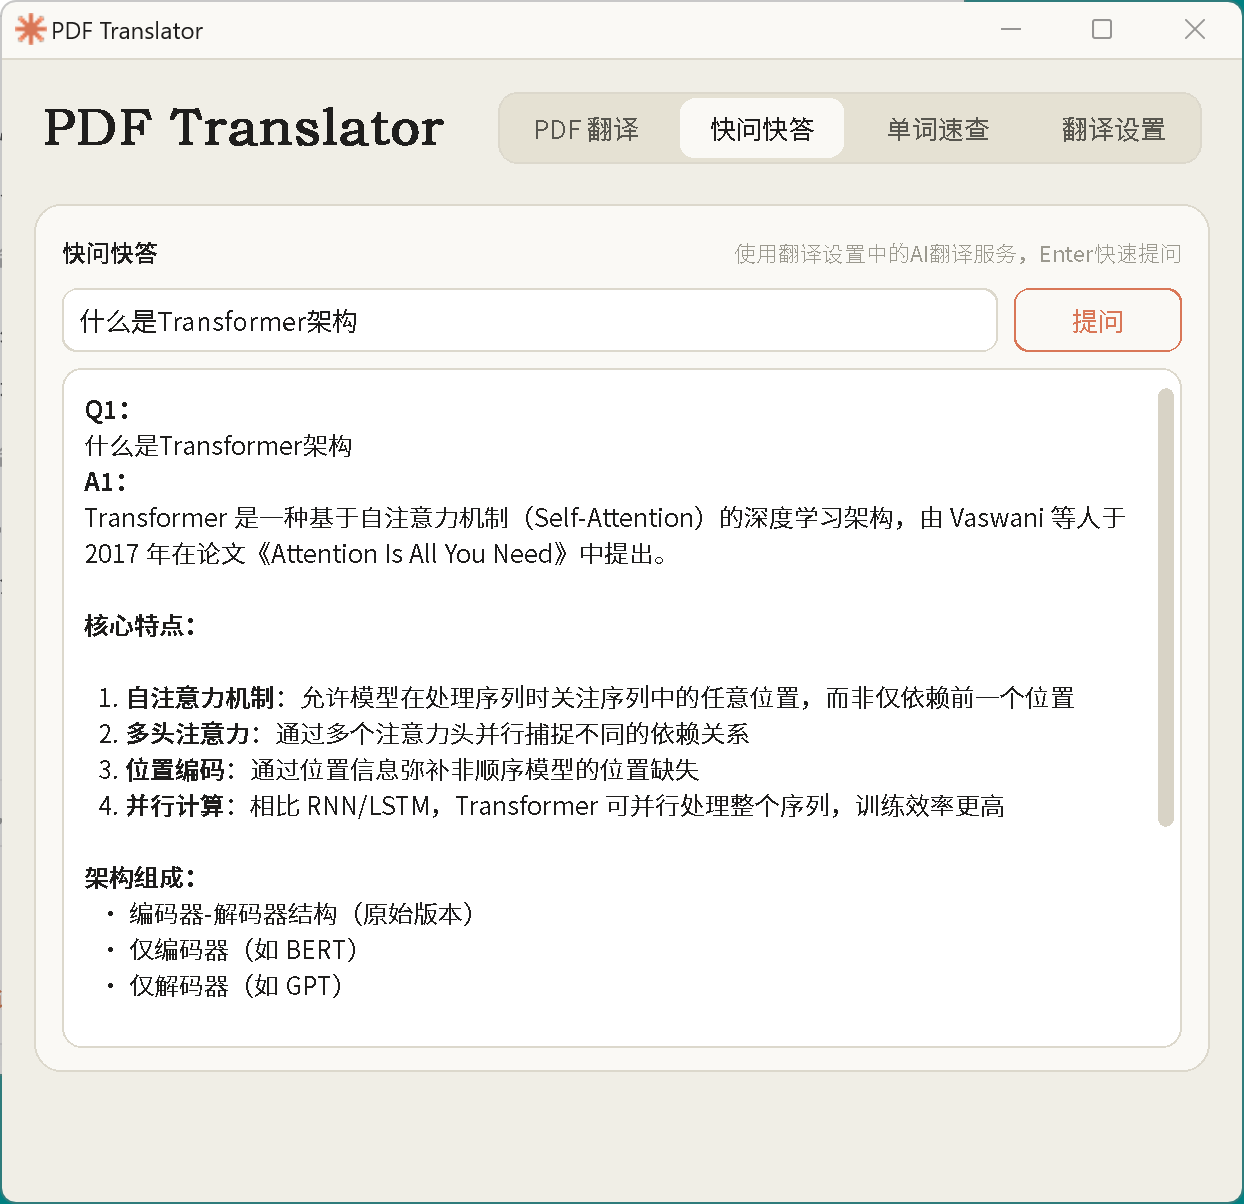
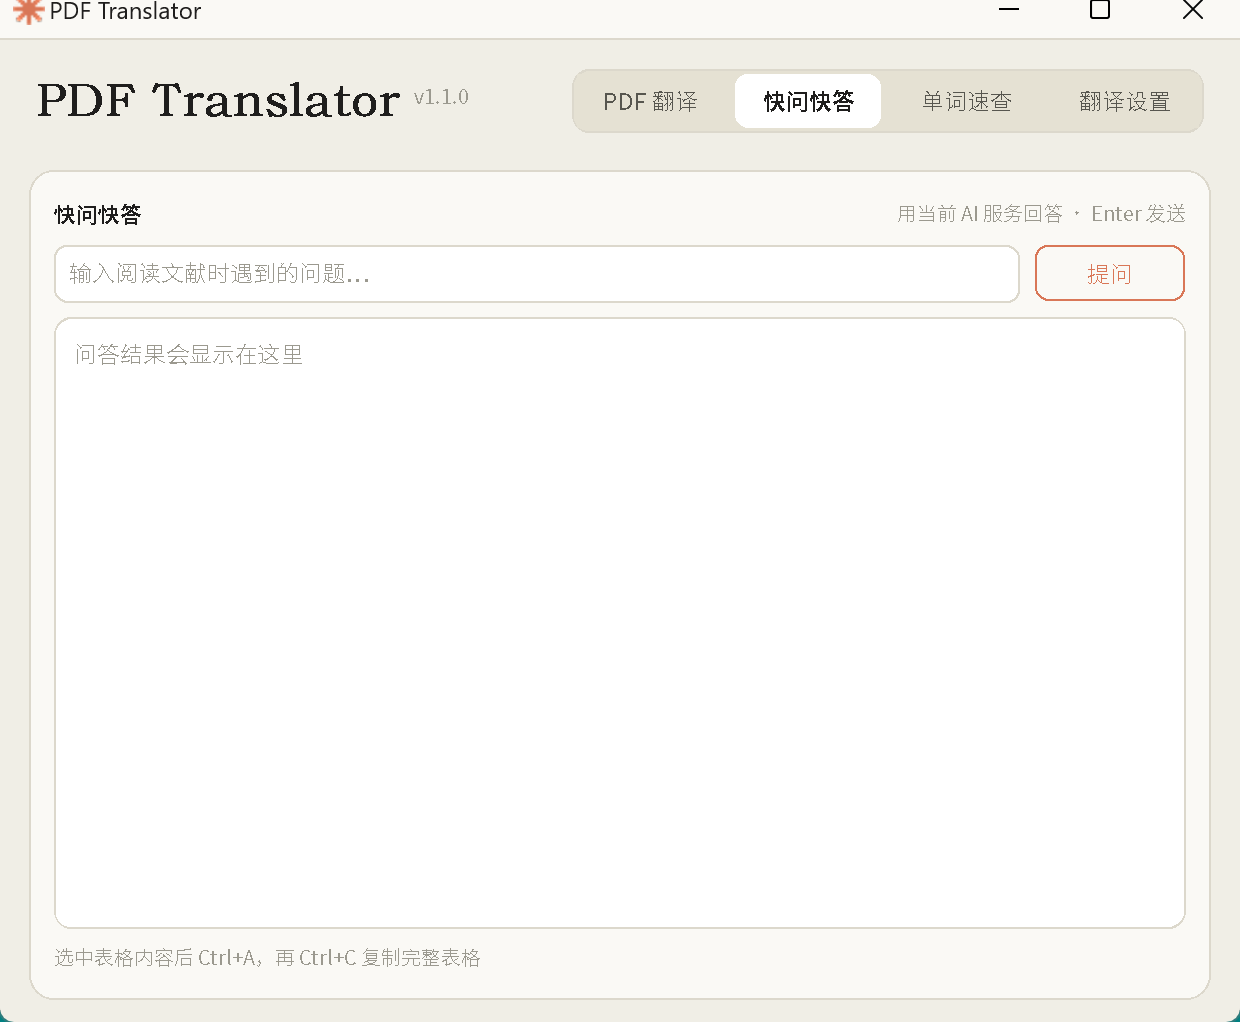
Document the proxy setting, virtualenv install and dev workflow
Screenshots are regenerated from the current UI (version badge, proxy row,
active-service hint).

diff --git a/README.md b/README.md
@@ -13,11 +13,14 @@
 - 快问快答：调用翻译设置中的 AI 服务，适合阅读文献时临时提问，支持 Markdown 渲染和最近对话上下文
 - 单词速查：调用所选 AI 服务即时查词，释义语言跟随「目标语言」，支持音标和领域释义，结果区支持 Markdown 渲染
 - 模型列表支持「获取可用模型」后通过右侧下拉选择；长列表会限高并滚动，不会自动覆盖输入框
+- **网络代理可配置**：跟随系统 / 直接连接 / 自定义，设置同时作用于 GUI 请求和 pdf2zh 翻译请求
+- **请求失败自动重试**：超时、429、5xx 会按指数退避重试，长文献不会因单次抖动整篇失败
+- **API Key 使用 Windows DPAPI 加密后落盘**，只有当前 Windows 账户能解密
 - Ctrl+滚轮 缩放整个界面（70%–160%），Ctrl+0 复原；自动记住缩放比例和窗口尺寸
-- 自动保存翻译服务、语言、输出模式、页码、线程、缓存、注意事项和输出目录等设置
+- 自动保存翻译服务、语言、输出模式、页码、线程、缓存、注意事项、代理和输出目录等设置
 - 支持 OpenAI 兼容、Claude/Anthropic 兼容、DeepSeek、Gemini、智谱、SiliconFlow、Grok、Groq、Ollama、Azure OpenAI 等服务
 - 支持 LongCat 这类 Anthropic-compatible `/messages` 网关
-- 翻译设置内可检查 GitHub 更新，并自动拉取最新版本
+- 翻译设置内可检查 GitHub 更新并自动拉取；每天静默检查一次，无 Git 环境时回落为下载压缩包更新
 - 自动创建桌面快捷方式
 - GUI 内管理翻译服务配置，API Key 只保存在本机用户配置目录
 
@@ -43,18 +46,22 @@ powershell -NoProfile -ExecutionPolicy Bypass -Command "irm https://raw.githubus
 
 安装脚本会：
 
-- 使用 `git clone` 将本仓库安装到 `%LOCALAPPDATA%\pdf2zh-gui`
+- 使用 `git clone` 将本仓库安装到 `%LOCALAPPDATA%\pdf2zh-gui`（已安装过则原地 `git pull`，保留虚拟环境）
+- 在安装目录下创建独立虚拟环境 `.venv`，依赖只装在这里，**不会污染系统 Python 或 conda 环境**
 - 安装 `requirements.txt` 中的 Python 依赖
-- 在桌面创建 `PDF Translator.lnk`
+- 在桌面创建 `PDF Translator.lnk`，指向 `.venv` 里的 `pythonw.exe`
 - 使用项目内置图标
 
 安装目录会保留完整 Git 仓库，因此 GUI 内的「检查更新」可以直接获取并拉取 GitHub 最新版本。
 
-如果你想指定 Python，可先设置：
+可选参数：
 
 ```powershell
+# 指定基础 Python
 $env:PDF2ZH_GUI_PYTHON="C:\Path\To\python.exe"
-powershell -NoProfile -ExecutionPolicy Bypass -Command "irm https://raw.githubusercontent.com/YanRuiZhan/pdf2zh-gui/main/install.ps1 | iex"
+
+# 不建虚拟环境，直接装进当前 Python（不推荐）
+$env:PDF2ZH_GUI_NO_VENV="1"
 ```
 
 > 运行远程脚本前，建议先打开 `install.ps1` 检查内容。脚本不会读取、提交或上传你的 API Key。
@@ -77,15 +84,12 @@ powershell -NoProfile -ExecutionPolicy Bypass -Command "irm https://raw.githubus
 ```powershell
 git clone https://github.com/YanRuiZhan/pdf2zh-gui.git
 cd pdf2zh-gui
-python -m pip install -r requirements.txt
-python pdf2zh_gui.py
+python -m venv .venv
+.\.venv\Scripts\python.exe -m pip install -r requirements.txt
+.\.venv\Scripts\pythonw.exe pdf2zh_gui.py
 ```
 
-也可以双击：
-
-```text
-pdf_translator.bat
-```
+也可以双击 `pdf_translator.bat`，它会优先使用同目录下的 `.venv`。
 
 ## 配置翻译服务
 
@@ -107,9 +111,21 @@ LongCat / Claude 兼容服务可选：
 %USERPROFILE%\.config\PDFMathTranslate\gui_prefs.json
 ```
 
-`gui_services.json` 会包含你添加的服务地址、模型名和 API Key；`gui_prefs.json` 保存界面偏好和翻译设置。它们都是个人配置，不应提交到 GitHub。
+`gui_services.json` 保存你添加的服务地址、模型名和 API Key，其中 **API Key 会用 Windows DPAPI 加密**（形如 `enc:v1:...`），换电脑或换 Windows 账户后需要重新填写。`gui_prefs.json` 保存界面偏好和翻译设置。它们都是个人配置，不应提交到 GitHub。
 
-如果你的电脑上还有 `%USERPROFILE%\.config\PDFMathTranslate\config.json`，那是 pdf2zh 的旧配置文件，也可能包含密钥；本 GUI 不会把其中的旧服务直接显示在「翻译服务」下拉框中。
+如果你的电脑上还有 `%USERPROFILE%\.config\PDFMathTranslate\config.json`，那是 pdf2zh 的旧配置文件，也可能包含明文密钥；本 GUI 不会把其中的旧服务直接显示在「翻译服务」下拉框中。
+
+## 网络代理
+
+「翻译设置 → 网络代理」提供三种模式：
+
+| 模式 | 行为 |
+| --- | --- |
+| 跟随系统 | 使用 `HTTP_PROXY` / `HTTPS_PROXY` 等环境变量与系统代理设置（默认） |
+| 直接连接 | 本进程内清除代理环境变量，强制直连 |
+| 自定义 | 使用你填写的代理地址，例如 `http://127.0.0.1:7890` |
+
+设置会同时作用于 GUI 自己的请求（测试连接、获取模型、快问快答、单词速查）和 pdf2zh 的翻译请求。
 
 ## 默认设置
 
@@ -123,6 +139,8 @@ LongCat / Claude 兼容服务可选：
 - 并发线程：8
 - 翻译缓存：启用（不默认忽略缓存）
 - 界面缩放：90%
+- 网络代理：跟随系统
+- 单次翻译上限：4096 tokens
 - 默认不内置翻译服务，需要首次启动后手动添加
 - 默认注意事项：不翻译公式、参考文献、URL/DOI/邮箱，并保留英文人名、地名和常见专业术语缩写
 
@@ -137,16 +155,33 @@ LongCat / Claude 兼容服务可选：
 本项目在 GUI 启动翻译时会对 pdf2zh 做两个运行时兼容补丁：
 
 - 修复部分 PDF 渲染时 `PDFPageInterpreterEx.scs` 未初始化的问题
-- 对 Base URL 含 `/anthropic` 或 `anthropic.com` 的 OpenAI-like 服务，走 Anthropic `/messages` 请求，兼容 LongCat 等网关
+- 对 Base URL 含 `/anthropic` 或 `anthropic.com` 的 OpenAI-like 服务，走 Anthropic `/messages` 请求，兼容 LongCat 等网关（含失败重试）
 
 这些补丁只在本 GUI 进程内生效，不会修改你 Python 环境里的 site-packages 文件。
 
+## 开发
+
+核心逻辑与界面分离，`pdf2zh_core.py` 不依赖 tkinter，可以直接跑测试：
+
+```powershell
+python -m pip install pytest
+python -m pytest tests -q
+```
+
+CI（`.github/workflows/ci.yml`）会在 Ubuntu 与 Windows、Python 3.11 / 3.12 上跑字节码编译和这套测试。
+
 ## 文件
 
-- `pdf2zh_gui.py`：主程序
+- `pdf2zh_gui.py`：GUI 主程序
+- `pdf2zh_core.py`：无界面核心（服务定义、HTTP、代理、配置、提示词、运行时补丁）
+- `tests/`：核心逻辑单元测试
 - `pdf_translator.bat`：本地启动脚本
 - `install.ps1`：Windows 一键安装脚本
 - `requirements.txt`：依赖列表
 - `default_gui_prefs.json`：默认 GUI 偏好设置，不包含 API Key 或服务地址
 - `star.ico` / `star.png`：窗口标题栏图标
 - `pdf_translate_icon_full.ico` / `pdf_translate_icon_full.png`：桌面快捷方式图标
+
+## 许可证
+
+[MIT](LICENSE)
